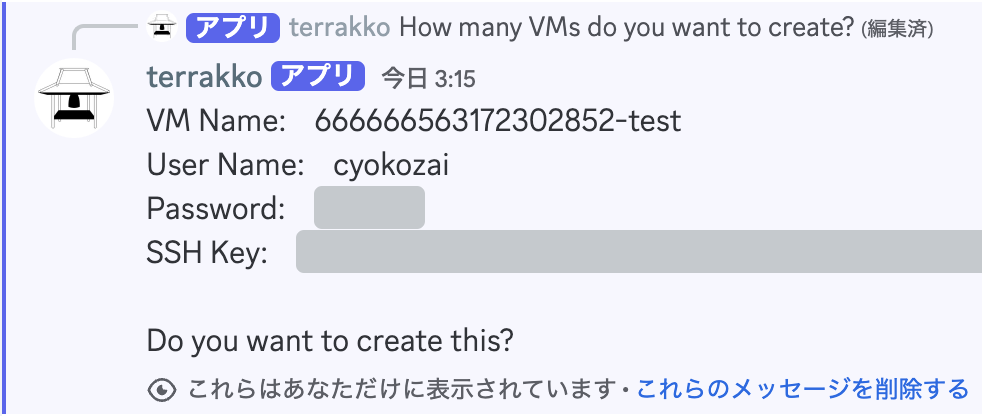
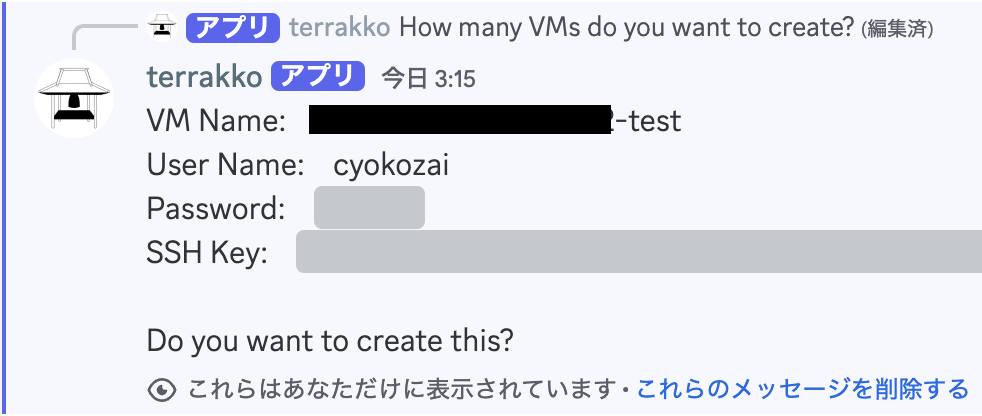
README.mdのVM操作セクションの画像を修正し、操作手順を明確化

Changed region(s): [[0.3055, 0.25, 0.6415, 0.3438]]

diff --git a/README.md b/README.md
@@ -110,10 +110,10 @@ You can register information about your VM
 
 - Confirm the VM information
 
-  ![Operate](images/image4.png)
+  ![Operate](imate VM
+  - Click `No`: Cancelages/image4.png)
 
-  - Click `Yes`: Create VM
-  - Click `No`: Cancel
+  - Click `Yes`: Cre
 
     ![Operate](images/image5.png)
 
